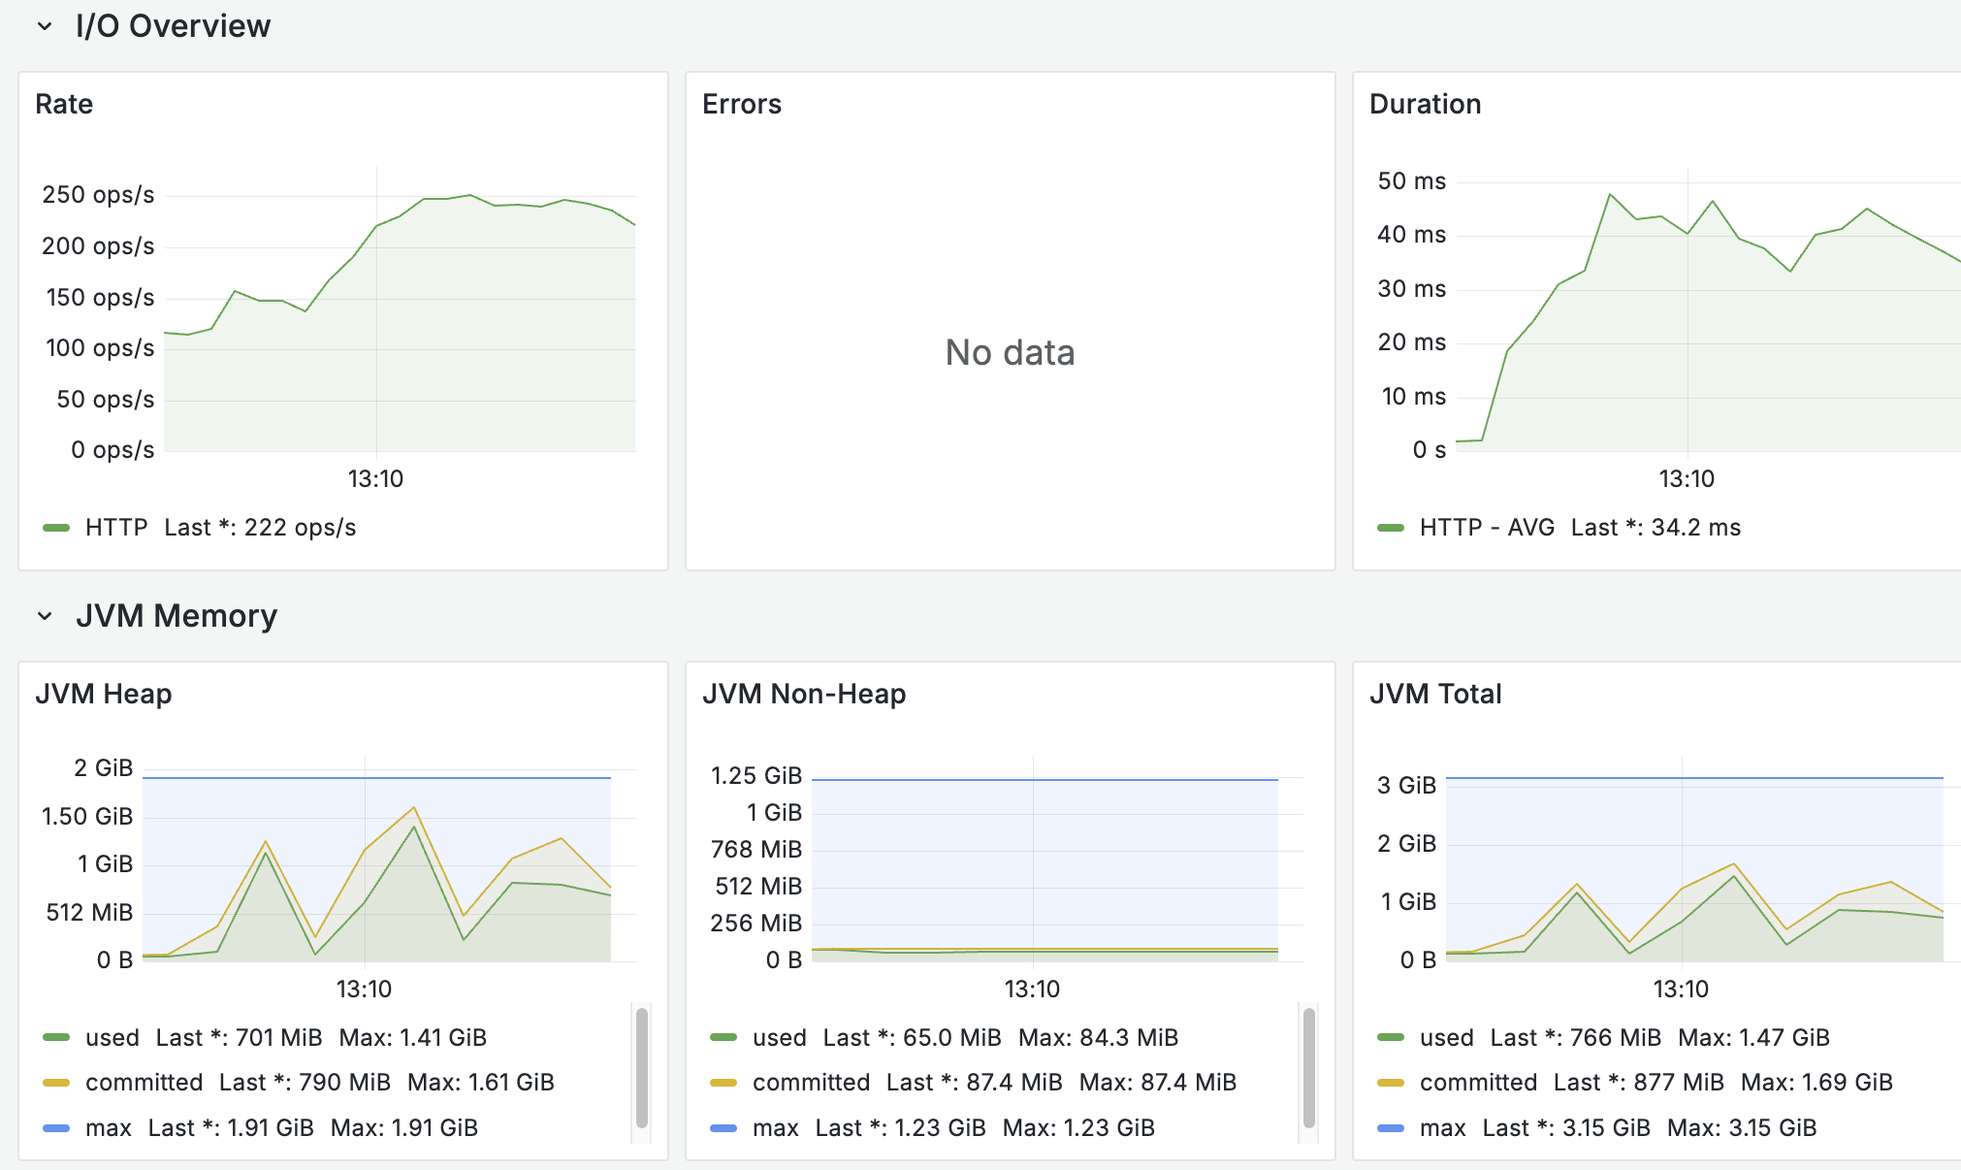
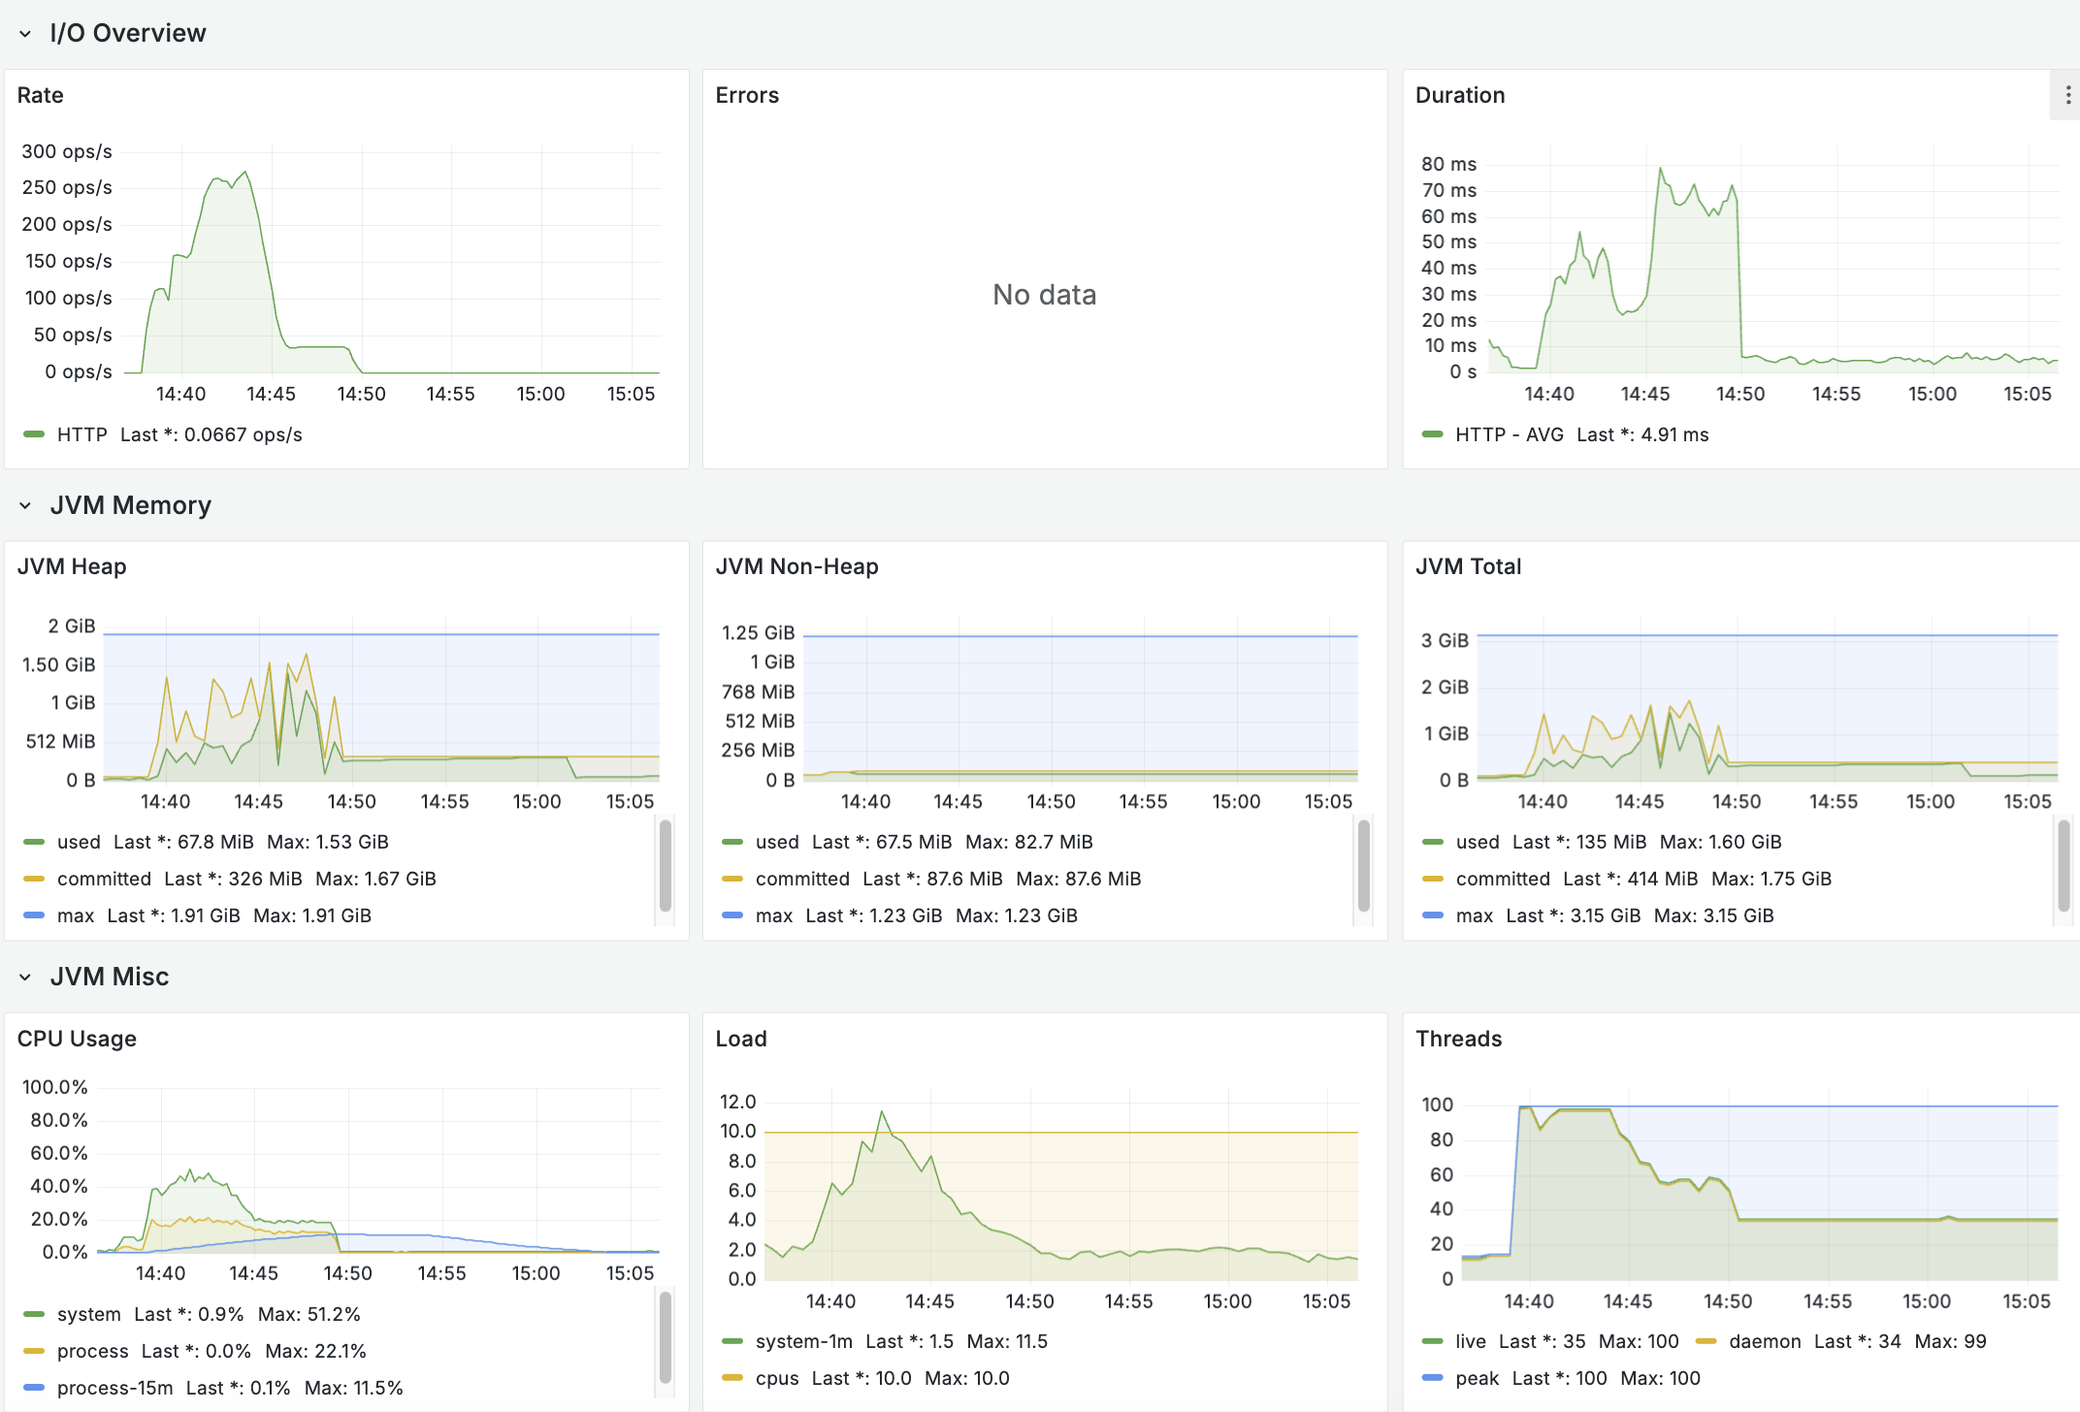
adding documentation

diff --git a/notifications/src/main/kotlin/com/hris/notifications/routes/NotificationsRoutes.kt b/notifications/src/main/kotlin/com/hris/notifications/routes/NotificationsRoutes.kt
@@ -1,12 +1,10 @@
 package com.hris.notifications.routes
 
 import io.ktor.server.application.*
-import io.ktor.server.plugins.openapi.*
 import io.ktor.server.plugins.swagger.*
 import io.ktor.server.response.*
 import io.ktor.server.routing.*
 import io.micrometer.prometheus.PrometheusMeterRegistry
-import io.swagger.codegen.v3.generators.html.StaticHtmlCodegen
 import org.kodein.di.DI
 import org.kodein.di.instance
 
@@ -14,7 +12,7 @@ fun Application.registerRoutes(kodein: DI) {
     val appMicrometerRegistry by kodein.instance<PrometheusMeterRegistry>()
 
     routing {
-        swaggerUI(path = "swagger", swaggerFile = "openapi/documentation.yaml")
+        swaggerUI(path = "swagger", swaggerFile = "openapi/notifications_documentation.yaml")
         get("/metrics") {
             call.respond(appMicrometerRegistry.scrape())
         }

diff --git a/employees/src/main/kotlin/com/hris/employees/routes/EmployeesRoutes.kt b/employees/src/main/kotlin/com/hris/employees/routes/EmployeesRoutes.kt
@@ -50,8 +50,8 @@ fun Application.registerRoutes(kodein: DI) {
     val appMicrometerRegistry by kodein.instance<PrometheusMeterRegistry>()
 
     routing {
-        swaggerUI(path = "swagger", swaggerFile = "openapi/documentation.yaml")
-        openAPI(path = "openapi", swaggerFile = "openapi/documentation.yaml") {
+        swaggerUI(path = "swagger", swaggerFile = "openapi/employees_documentation.yaml")
+        openAPI(path = "openapi", swaggerFile = "openapi/employees_documentation.yaml") {
             codegen = StaticHtmlCodegen()
         }
         get("/metrics") { call.respond(appMicrometerRegistry.scrape()) }

diff --git a/reviews/src/main/kotlin/com/hris/reviews/routes/ReviewsRoutes.kt b/reviews/src/main/kotlin/com/hris/reviews/routes/ReviewsRoutes.kt
@@ -38,8 +38,8 @@ fun Application.registerRoutes(kodein: DI) {
     val appMicrometerRegistry by kodein.instance<PrometheusMeterRegistry>()
 
     routing {
-        swaggerUI(path = "swagger", swaggerFile = "openapi/documentation.yaml")
-        openAPI(path="openapi", swaggerFile = "openapi/documentation.yaml") {
+        swaggerUI(path = "swagger", swaggerFile = "openapi/reviews_documentation.yaml")
+        openAPI(path="openapi", swaggerFile = "openapi/reviews_documentation.yaml") {
             codegen = StaticHtmlCodegen()
         }
         get("/metrics") {

diff --git a/reviews/src/main/kotlin/com/hris/reviews/Application.kt b/reviews/src/main/kotlin/com/hris/reviews/Application.kt
@@ -1,9 +1,9 @@
 package com.hris.reviews
 
 
-import com.hris.reviews.service.PerformanceReviewService
 import com.hris.reviews.monitoring.configureMonitoring
 import com.hris.reviews.routes.registerRoutes
+import com.hris.reviews.service.PerformanceReviewService
 import com.zaxxer.hikari.HikariConfig
 import com.zaxxer.hikari.HikariDataSource
 import io.ktor.server.application.*

diff --git a/README.md b/README.md
@@ -161,41 +161,98 @@ spikeUpdates    ✓ [======================================] 0000/0145 VUs  30s 
 stressHierarchy ✓ [======================================] 000/300 VUs    6m0s 
 
 ```
+### Результаты нагрузочного тестирования
 
-Для employees самыми дорогими запросами являются запросы на иерархию, скрин на момент стресс теста на hierarchy
+- **Проверки:**  
+  Все сценарии отработали корректно: 100% проверок пройдены (131583/131583).
+
+- **Производительность HTTP-запросов:**
+    - **Среднее время ответа:** 173.04 мс
+        - 90-й процентиль: 533.95 мс
+        - 95-й процентиль: 745.54 мс
+    - **Среднее время ожидания ответа:** 54.13 мс
+        - p90: 135 мс
+        - p95: 208.19 мс
+    - **Среднее время отправки запроса:** 15.42 µs
+    - **Среднее время установления соединения:** 1.32 µs
+
+- **Пропускная способность:**
+    - Общее количество запросов: 141593 (около 205 запросов/сек)
+    - Итераций: 131583 (около 190 итераций/сек)
+    - Объем полученных данных: 68 GB при скорости 99 MB/s
+    - Объем отправленных данных: 32 MB при скорости 46 kB/s
+
+- **Виртуальные пользователи:**
+    - Среднее число VUs: 37
+    - Максимальное число VUs: 651 (минимум 450, максимум 651)
+
+- **Дополнительно:**
+    - Количество "потерянных" итераций: 202 (~0.29 итераций/сек)
+    - Низкие задержки при блокировках и установлении соединений (блокировка: avg 5.5 µs, соединение: avg 1.32 µs)
+
+### Интерпретация
+
+Эти результаты свидетельствуют о стабильной работе системы под высокой нагрузкой:
+- Время отклика находится в допустимых пределах, даже при пиковых нагрузках (p90 – 533.95 мс, p95 – 745.54 мс).
+- Нет ошибок в HTTP-запросах (0% ошибок).
+- Высокая пропускная способность (около 205 запросов/сек) и большое количество обрабатываемых итераций подтверждают, что система способна выдерживать нагрузку десятков тысяч операций.
+
+Зафиксированные метрики в Grafana
+
+**Employees**
+
+![EmployeesMetrics.png](src/main/resources/pic/EmployeesMetrics.png)
+
+**Reviews**
+
+![ReviewsMetrics.png](src/main/resources/pic/ReviewsMetrics.png)
+
+**Notifications**
+
+![NotificationsMetrics.png](src/main/resources/pic/NotificationsMetrics.png)
 
 
+**Postgres** (но надо учитывать, что перед load тестом был setup, который создавал 10 тысяч сотрудников, но это не пошло в зачет произваодительности)
 
-Для reviews
+![PostgresMetrics.png](src/main/resources/pic/PostgresMetrics.png)
 
-Для Postgres (но надо учитывать, что перед load тестом был setup, который создавал 10 тысяч сотрудников, но это не пошло в зачет произваодительности)
+**RabbitMQ**
 
-Все проверяемые операции (обновление сотрудника, получение иерархии, получение списка сотрудников, создание ревью) проходят с 100% успешностью, ошибок HTTP нет (http_req_failed = 0%).
-Среднее время отклика по всем запросам составляет около 223 мс, при этом медиана для запроса составляет 67 мс, а p90 — около 625 мс. Что вполне приемлемо для такой нагрузки.
-В целом, система показывает хорошие результаты под нагрузкой, все ключевые операции работают стабильно и в пределах приемлемых временных рамок. Это говорит о том, что приложение способно выдерживать заявленную нагрузку (десятки тысяч сотрудников, еженедельные ревью и кадровые изменения) при условии, что база данных и инфраструктура также настроены оптимально для масштабируемости.
-
+![RabbitMQMetrics.png](src/main/resources/pic/RabbitMQMetrics.png)
 
 
-## **Выыоды и рекомендации по деплою и дальнейшей оптимизации**
+## Выводы и рекомендации по деплою и дальнейшей оптимизации
 
-Системе требутеся гибкое масштабирование, соотвественно в будущем я бы вынес ее в микросервисы.
+**Текущая система уже поддерживает заявленную нагрузку благодаря следующим мерам:**
 
-Уже сделано:
-- **Пулы запросов в бд**: Prometheus + Grafana для отслеживания метрик.
-- **Мониторинг**: Prometheus + Grafana для отслеживания метрик.
-- **PostgreSQL**: индексы на часто запрашиваемые поля (`supervisor_id`).
-- **RabbitMQ**: разные очереди для разных типов уведомлений.
-- **Сервисы**: асинхронная обработка (корутины), `Transactional Outbox` для атомарности событий.
+- **Пулы соединений (HikariCP):** Ограничение числа одновременно открытых соединений и быстрый возврат их в пул после завершения транзакции.
+- **Мониторинг:** Используются Prometheus и Grafana для сбора и визуализации метрик.
+- **Оптимизация БД:** В PostgreSQL созданы индексы на часто запрашиваемые поля (например, `supervisor_id`).
+- **RabbitMQ:** Использование отдельных очередей для различных типов уведомлений.
+- **Сервисы:** Асинхронная обработка с использованием корутин и применение паттерна Transactional Outbox для обеспечения атомарности и аудита событий.
 
+**Рекомендации для дальнейшей оптимизации и деплоя:**
 
-- **Load Balancer**: NGINX, HAProxy для распределения нагрузки.
-- **Кэширование**: для снижения нагрузки на БД при тяжеловесных запросах на иерархии.
-- **Отказоустойчивость**: Авто-скейлинг сервисов, репликация базы данных и RabbitMQ.
+- **Масштабирование и балансировка нагрузки:**  
+  Использование Load Balancer (NGINX, HAProxy) для равномерного распределения запросов между сервисами.
 
-### **Оптимизация**
+- **Оркестрация:**  
+  Перевод системы на платформу оркестрации (например, Kubernetes) для автоматического масштабирования и управления микросервисами.
 
+- **Кэширование:**  
+  Настройка кэширования на уровне приложения или с использованием внешних решений для снижения нагрузки на базу данных при сложных запросах (например, получение иерархий).
 
+- **Дополнительное индексирование:**  
+  Помимо индекса по `supervisor_id`, рекомендуется создать индексы для таблиц `performance_reviews` и `outbox` по полям `employee_id` (и по датам, если выборки зависят от временных интервалов).
 
----
+- **Партиционирование:**  
+  При быстром росте данных в таблицах, особенно в `outbox`, можно рассмотреть горизонтальное разделение (partitioning) по, например, дате создания. Это улучшит скорость выборок и снизит нагрузку.
 
+- **Мониторинг и оповещения:**  
+  Настройка оповещений (alerts) в Grafana для своевременного реагирования на критичные метрики (например, время ответа, использование соединений с БД).
+
+- **Отказоустойчивость:**  
+  Обеспечение автоматического масштабирования сервисов, репликация базы данных и RabbitMQ, что повысит устойчивость системы к сбоям.
+
+Эти меры обеспечивают гибкость, масштабируемость и высокую производительность системы, позволяя системе выдерживать нагрузку десятков тысяч сотрудников с регулярными ревью и кадровыми изменениями.
 
